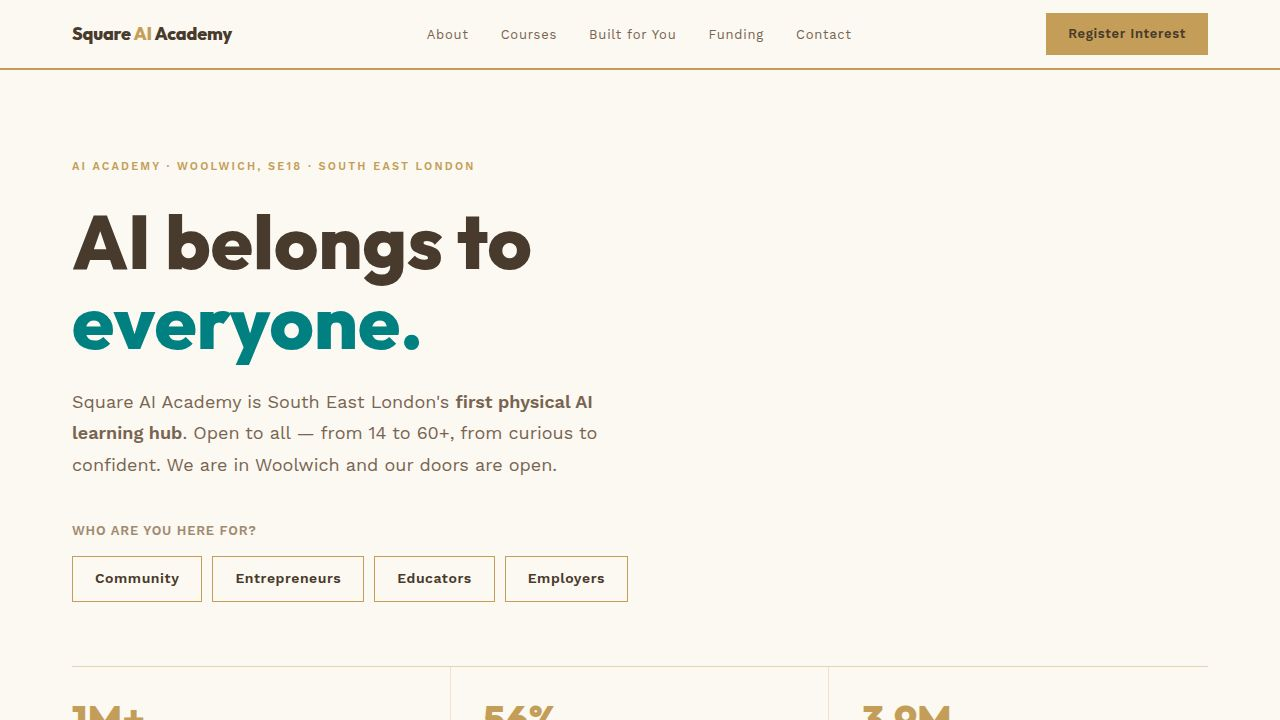
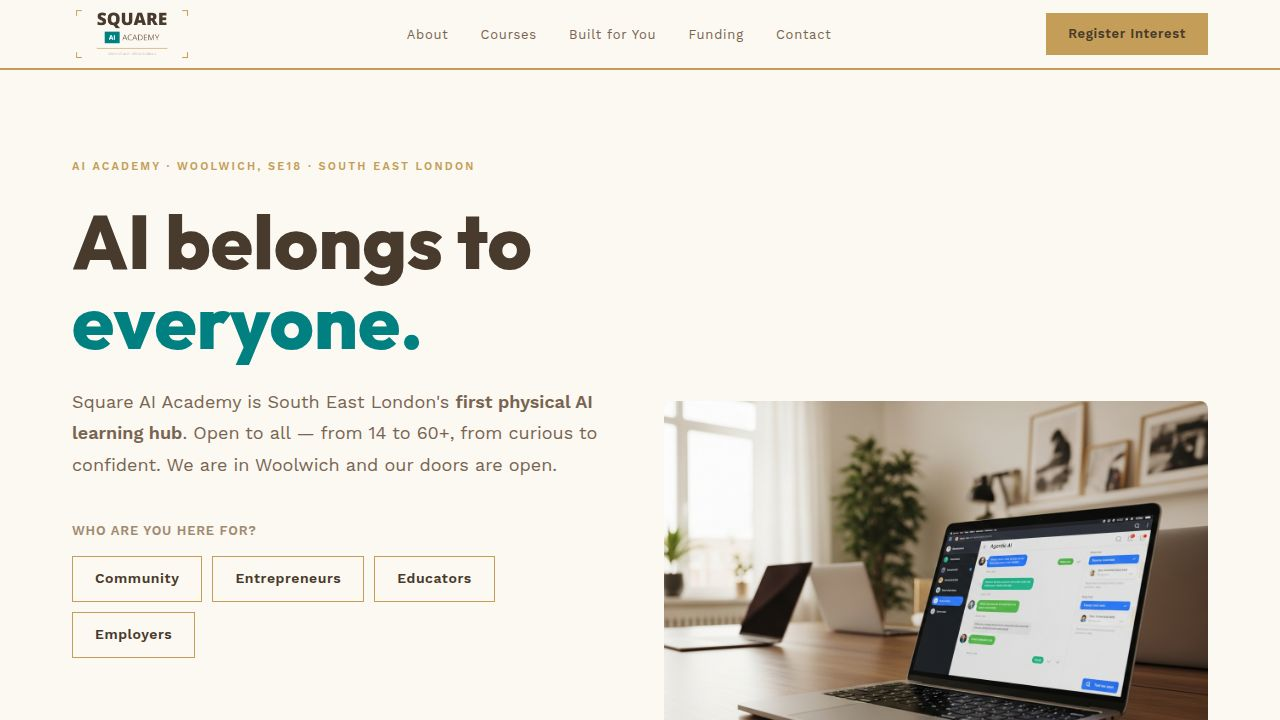
Task #14: Set up one-click GitHub push via GITHUB_SYNC_TOKEN + GITHUB_REPO secrets
## What was done
- Requested and confirmed both GITHUB_SYNC_TOKEN and GITHUB_REPO secrets from the user
  via requestEnvVar(); secrets are now stored in Replit Secrets and available to the
  post-merge sync script at runtime.
- Discovered that the existing sync script (scripts/src/sync-github.ts) was failing with
  a "stale info" git error on --force-with-lease because it pushed without first fetching
  the current remote state into a tracking ref.
- Fixed the script: before pushing, it now fetches the remote's main branch into a
  temporary tracking ref (refs/remotes/github-sync/main), then passes that ref explicitly
  to --force-with-lease=main:<tmpRef>. This gives git an up-to-date picture of the remote
  and eliminates the stale-info rejection.
- Verified the fix end-to-end: pnpm --filter @user/scripts run sync-github now
  completes successfully (token validated, remote fetched, pushed to
  elevatedliving/square-ai-academy main branch).

## Deviations from plan
- The task said "add the secrets so the script runs" — the secrets were added as planned,
  but an existing bug in the script (stale --force-with-lease) had to be fixed before the
  sync actually worked. The script fix was a necessary deviation, not extra scope.

## Files changed
- scripts/src/sync-github.ts — added fetch-before-push logic with explicit lease ref

Replit-Task-Id: 61ad667f-32d7-4315-a7fc-5fc85394e120

diff --git a/scripts/src/sync-github.ts b/scripts/src/sync-github.ts
@@ -132,6 +132,18 @@ async function main() {
     }
     run(`git remote add ${remoteName} "${remoteUrl}"`);
 
+    // Fetch the current remote state into a temporary tracking ref so that
+    // --force-with-lease has an up-to-date picture of the remote. Without this
+    // fetch, git uses stale remote-tracking refs and rejects the push with
+    // "stale info" even when the push would be safe.
+    const tmpRef = `refs/remotes/${remoteName}/main`;
+    console.log("[sync-github] Fetching remote state…");
+    try {
+      run(`git fetch ${remoteName} main:${tmpRef} 2>&1`);
+    } catch {
+      // If the remote is empty (fresh repo) there is nothing to fetch — proceed.
+    }
+
     console.log(
       `[sync-github] Pushing branch '${branch}' → github.com/${repo} (main)…`
     );
@@ -139,7 +151,7 @@ async function main() {
     let pushOutput = "";
     try {
       pushOutput = run(
-        `git push ${remoteName} ${branch}:main --force-with-lease 2>&1`
+        `git push ${remoteName} ${branch}:main --force-with-lease=main:${tmpRef} 2>&1`
       );
     } catch (err) {
       const msg = err instanceof Error ? err.message : String(err);